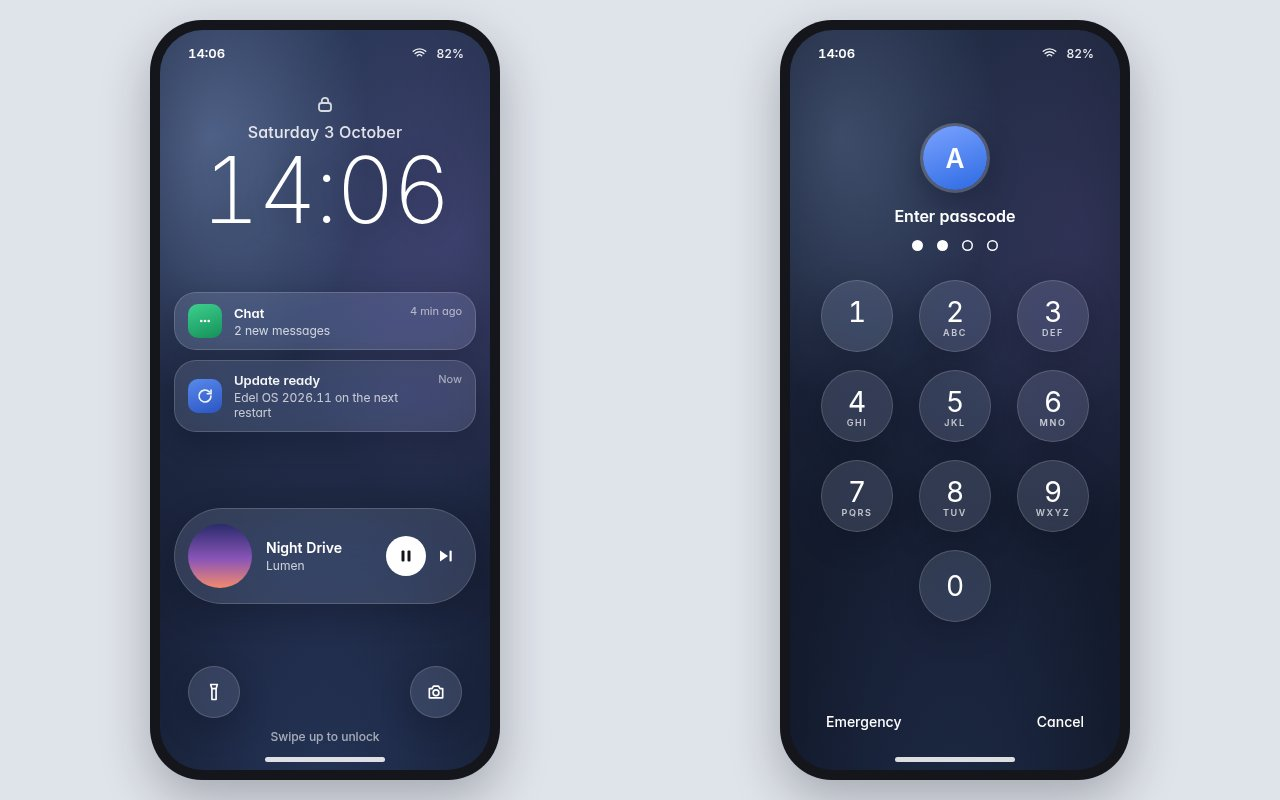
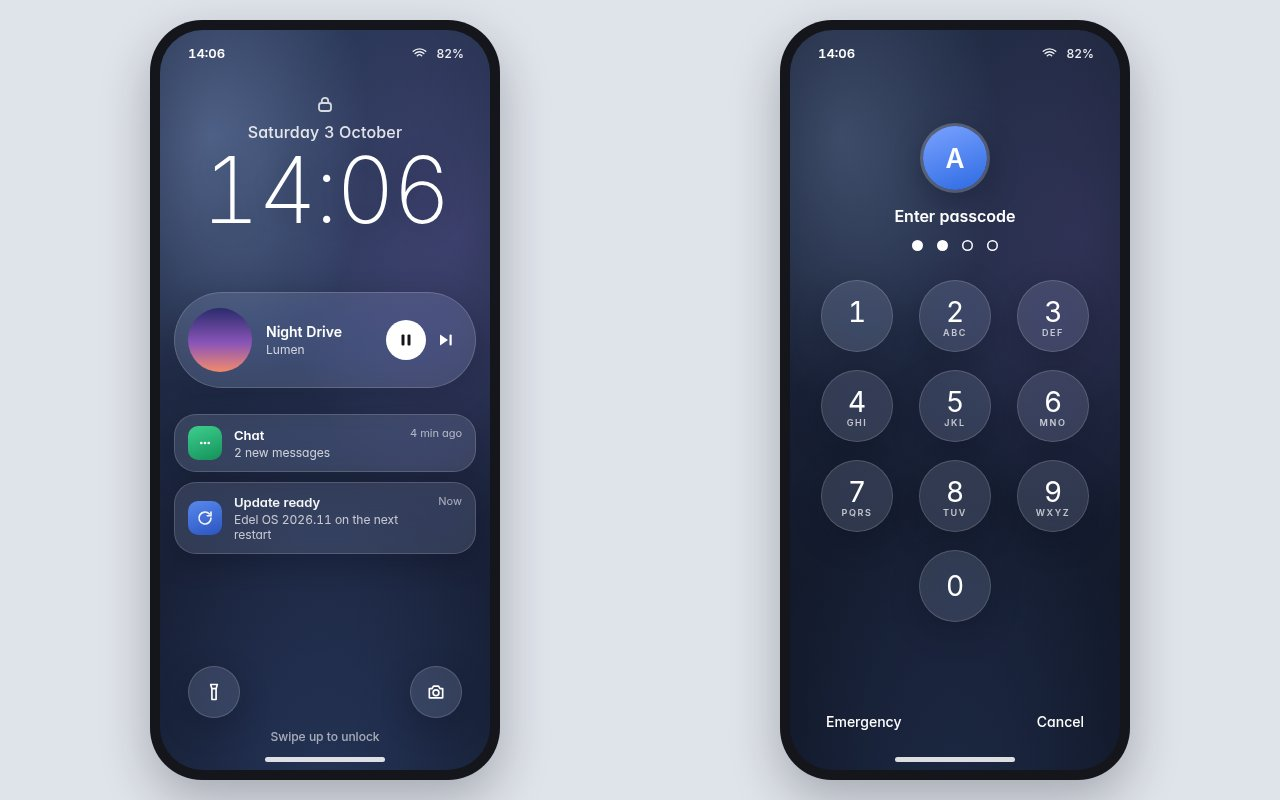
Move the shade's buttons up, place the lock screen's player, plan customization
Alimardon's review of 2026-10-10: the larger buttons beside the clock
looked a little awkward, so on the phone and tablet they move to the top
row beside the battery, over the large clock and the date; on the
phone's lock screen the player sits right under the clock, before the
notifications; they asked to see the desktop lock screen with music
playing (shell/lock-media.jpg) and for every part of the lock and login
screens to be changeable, which M5.10c now plans as tokens and a Lock
screen group on the Appearance page, with a seam for the cover tinting
the background later.

Claude-Session: https://claude.ai/code/session_01BKmt1qoa5mKGyQ4ytiEsKo

Changed region(s): [[0.125, 0.3438, 0.375, 0.7812]]

diff --git a/docs/mockups/shell/canvas/DecTablet.dc.html b/docs/mockups/shell/canvas/DecTablet.dc.html
@@ -110,14 +110,13 @@ a{color:#2459c9}
 .shelf .more{background:#fff;color:#17191d;box-shadow:0 0 0 .5px rgba(20,22,28,.08),0 1px 2px rgba(20,22,28,.08)}
 /* header actions */
 .head{display:flex;flex-direction:column;gap:0;padding:0 4px 0 6px;font-variant-numeric:tabular-nums}
-.head .l1,.head .l2{display:flex;align-items:center;justify-content:space-between}
-.head .l1{justify-content:flex-end;margin-bottom:-6px}
-.head .big{font-size:42px;font-weight:700;letter-spacing:-.035em;line-height:1.05}
-.head .acts{display:flex;gap:10px;align-self:flex-end;margin-bottom:2px}
-.head .acts .ib{width:44px !important;height:44px !important;border-radius:13px !important;background:rgba(20,22,28,.06) !important}
-.head .acts .ib svg{width:18px;height:18px}
+.head .l1{display:flex;align-items:center;justify-content:space-between;margin:-2px 0 6px}
+.head .big{font-size:46px;font-weight:700;letter-spacing:-.035em;line-height:1}
+.head .acts{display:flex;gap:8px}
+.head .acts .ib{width:38px !important;height:38px !important;border-radius:12px !important;background:rgba(20,22,28,.06) !important}
+.head .acts .ib svg{width:17px;height:17px}
 .head .bat{display:flex;align-items:center;gap:6px;font-size:13px;font-weight:600}
-.head .date{font-size:14px;opacity:.62;margin-top:2px}
+.head .date{font-size:14px;opacity:.62;margin-top:4px}
 .dots{display:flex;justify-content:center;gap:5px;margin:-8px 0 2px}
 .dots i{display:block}
 .wsv{width:94px;overflow:hidden;padding:4px 0;-webkit-mask-image:linear-gradient(90deg,#000 0,#000 calc(100% - 16px),transparent 100%);mask-image:linear-gradient(90deg,#000 0,#000 calc(100% - 16px),transparent 100%)}
@@ -151,15 +150,6 @@ a{color:#2459c9}
 .tbar{position:absolute;left:0;right:0;top:0;height:52px;display:flex;align-items:center;gap:8px;padding:0 16px;background:rgba(246,247,249,.9);backdrop-filter:blur(20px);box-shadow:0 .5px 0 rgba(20,22,28,.1)}
 
 /* header actions */
-.head{display:flex;flex-direction:column;gap:0;padding:0 4px 0 6px;font-variant-numeric:tabular-nums}
-.head .l1,.head .l2{display:flex;align-items:center;justify-content:space-between}
-.head .l1{justify-content:flex-end;margin-bottom:-6px}
-.head .big{font-size:42px;font-weight:700;letter-spacing:-.035em;line-height:1.05}
-.head .acts{display:flex;gap:10px;align-self:flex-end;margin-bottom:2px}
-.head .acts .ib{width:44px !important;height:44px !important;border-radius:13px !important;background:rgba(20,22,28,.06) !important}
-.head .acts .ib svg{width:18px;height:18px}
-.head .bat{display:flex;align-items:center;gap:6px;font-size:13px;font-weight:600}
-.head .date{font-size:14px;opacity:.62;margin-top:2px}
 .dots{display:flex;justify-content:center;gap:5px;margin:-8px 0 2px}
 .dots i{display:block}
 /* even rows */
@@ -170,7 +160,7 @@ a{color:#2459c9}
 </style>
 </helmet>
 <div class="tab"><div class="tbar"><div style="display:flex;align-items:center" role="group" aria-label="Workspaces, 1 of 7 shown"><span class="wch off"><svg width="10" height="10" viewBox="0 0 24 24" fill="none" stroke="currentColor" stroke-width="3" stroke-linecap="round" stroke-linejoin="round"><path d="M15 5l-7 7 7 7"/></svg></span><div class="wsv" style="width:126px"><div class="wsr" style="gap:6px"><span class="wp on" style="height:32px;min-width:50px;border-radius:16px;font-size:13px">1</span><span class="wp" style="height:32px;min-width:32px;border-radius:16px;font-size:13px">2</span><span class="wp" style="height:32px;min-width:32px;border-radius:16px;font-size:13px">3</span><span class="wp" style="height:32px;min-width:32px;border-radius:16px;font-size:13px">4</span><span class="wp e" style="height:32px;min-width:32px;border-radius:16px;font-size:13px">5</span><span class="wp e" style="height:32px;min-width:32px;border-radius:16px;font-size:13px">6</span><span class="wp e" style="height:32px;min-width:32px;border-radius:16px;font-size:13px">7</span></div></div><span class="wch"><svg width="10" height="10" viewBox="0 0 24 24" fill="none" stroke="currentColor" stroke-width="3" stroke-linecap="round" stroke-linejoin="round"><path d="M9 5l7 7-7 7"/></svg></span></div><button class="btn" style="height:36px;min-width:44px;border-radius:18px" aria-label="Layout: tiling"><svg width="14" height="14" viewBox="0 0 24 24" fill="none" stroke="currentColor" stroke-width="2"><rect x="3.5" y="4.5" width="17" height="15" rx="3"/><path d="M12 4.5v15"/></svg></button><span style="margin-left:auto;display:flex;align-items:center;gap:6px"><span class="arw" style="width:44px;height:44px"><svg width="12" height="12" viewBox="0 0 24 24" fill="none" stroke="currentColor" stroke-width="2.6" stroke-linecap="round" stroke-linejoin="round"><path d="M6 9l6 6 6-6"/></svg></span><span role="img" aria-label="Chat" style="width:24px;height:24px;border-radius:7px;background:#5b7cf0;color:#fff;display:inline-flex;align-items:center;justify-content:center;font-size:13px;font-weight:600;flex:none">C</span><span class="stp" style="height:36px;border-radius:18px;padding:0 14px"><svg width="14" height="14" viewBox="0 0 24 24" fill="none" stroke="currentColor" stroke-width="2.3" stroke-linecap="round"><path d="M2.5 9a14 14 0 0 1 19 0M5.5 12.5a9.5 9.5 0 0 1 13 0M8.6 16a5 5 0 0 1 6.8 0"/><circle cx="12" cy="19.2" r="1.1" fill="currentColor" stroke="none"/></svg><svg width="14" height="14" viewBox="0 0 24 24" fill="none" stroke="currentColor" stroke-width="2" stroke-linecap="round" stroke-linejoin="round"><path d="M4 9.5h3.5L12 5.5v13l-4.5-4H4z" fill="currentColor"/><path d="M15.5 9a4.5 4.5 0 0 1 0 6"/></svg><svg width="18" height="14" viewBox="0 0 28 16" fill="none" stroke="currentColor" stroke-width="1.6"><rect x="1" y="2" width="22" height="12" rx="3.5"/><rect x="3.5" y="4.5" width="14" height="7" rx="1.5" fill="currentColor" stroke="none"/><path d="M25.5 6v4" stroke-linecap="round"/></svg></span><b style="font-size:14px;font-weight:600;padding:0 6px">14:05</b></span></div><div class="win" style="left:8px;top:60px;width:578px;height:752px"><div class="bar28"><span role="img" aria-label="Files" style="width:16px;height:16px;border-radius:4px;background:#6b7280;color:#fff;display:inline-flex;align-items:center;justify-content:center;font-size:8px;font-weight:600;flex:none">B</span><span>Files</span><span class="btns"><span aria-label="Minimize"><svg width="14" height="14" viewBox="0 0 14 14" fill="none" stroke="currentColor" stroke-width="1.5" stroke-linecap="round"><path d="M2.5 7H11.5"/></svg></span><span aria-label="Maximize"><svg width="14" height="14" viewBox="0 0 14 14" fill="none" stroke="currentColor" stroke-width="1"><rect x="2.5" y="2.5" width="9" height="9"/></svg></span><span aria-label="Close"><svg width="14" height="14" viewBox="0 0 14 14" fill="none" stroke="currentColor" stroke-width="1.5" stroke-linecap="round"><path d="M2.5 2.5L11.5 11.5M2.5 11.5L11.5 2.5"/></svg></span></span></div><div class="ln" style="width:90%"></div><div class="ln" style="width:77%"></div><div class="ln" style="width:64%"></div><div class="ln" style="width:51%"></div><div class="ln" style="width:88%"></div><div class="ln" style="width:75%"></div><div class="ln" style="width:62%"></div><div class="ln" style="width:49%"></div><div class="ln" style="width:86%"></div><div class="ln" style="width:73%"></div><div class="ln" style="width:60%"></div><div class="ln" style="width:47%"></div></div><div class="win focused" style="left:594px;top:60px;width:578px;height:752px"><div class="bar28"><span role="img" aria-label="Notes" style="width:16px;height:16px;border-radius:4px;background:#e3a73a;color:#fff;display:inline-flex;align-items:center;justify-content:center;font-size:8px;font-weight:600;flex:none">N</span><span>Notes</span><span class="btns"><span aria-label="Minimize"><svg width="14" height="14" viewBox="0 0 14 14" fill="none" stroke="currentColor" stroke-width="1.5" stroke-linecap="round"><path d="M2.5 7H11.5"/></svg></span><span aria-label="Maximize"><svg width="14" height="14" viewBox="0 0 14 14" fill="none" stroke="currentColor" stroke-width="1"><rect x="2.5" y="2.5" width="9" height="9"/></svg></span><span aria-label="Close"><svg width="14" height="14" viewBox="0 0 14 14" fill="none" stroke="currentColor" stroke-width="1.5" stroke-linecap="round"><path d="M2.5 2.5L11.5 11.5M2.5 11.5L11.5 2.5"/></svg></span></span></div><div class="ln" style="width:90%"></div><div class="ln" style="width:77%"></div><div class="ln" style="width:64%"></div><div class="ln" style="width:51%"></div><div class="ln" style="width:88%"></div><div class="ln" style="width:75%"></div><div class="ln" style="width:62%"></div><div class="ln" style="width:49%"></div><div class="ln" style="width:86%"></div><div class="ln" style="width:73%"></div><div class="ln" style="width:60%"></div><div class="ln" style="width:47%"></div></div><div style="position:absolute;right:12px;top:62px;width:390px;display:flex;flex-direction:column;gap:8px">    <div class="sheet glass">
-      <div class="head"><div class="l1"><span class="bat" aria-label="Battery 82 percent">82%<svg width="24" height="13" viewBox="0 0 28 15" fill="none" stroke="currentColor" stroke-width="1.6" aria-hidden="true"><rect x="1" y="1.5" width="22" height="12" rx="3.6"/><rect x="3.4" y="3.9" width="14.6" height="7.2" rx="1.6" fill="currentColor" stroke="none"/><path d="M25.4 5.8v3.4" stroke-linecap="round"/></svg></span></div><div class="l2"><span><div class="big">14:05</div><div class="date">Saturday 3 October 2026</div></span><span class="acts"><button class="ib" aria-label="Edit"><svg width="17" height="17" viewBox="0 0 24 24" fill="none" stroke="currentColor" stroke-width="2" stroke-linecap="round" stroke-linejoin="round"><path d="M4 20h4L19 9l-4-4L4 16z"/></svg></button><button class="ib" aria-label="Settings"><svg width="18" height="18" viewBox="0 0 24 24" fill="none" stroke="currentColor" stroke-width="1.9" stroke-linejoin="round"><circle cx="12" cy="12" r="3"/><path d="M12 2.8l1.7 2.4 2.9-.5.9 2.8 2.7 1.2-.6 2.9 1.6 2.4-2.3 1.8.1 2.9-2.9.4-1.3 2.6L12 21.2l-2.7.9-1.3-2.6-2.9-.4.1-2.9-2.3-1.8 1.6-2.4-.6-2.9 2.7-1.2.9-2.8 2.9.5z"/></svg></button><button class="ib" aria-label="Power: lock, log out, restart or power off"><svg width="17" height="17" viewBox="0 0 24 24" fill="none" stroke="currentColor" stroke-width="2.1" stroke-linecap="round"><path d="M12 3v8"/><path d="M6.3 6.8a8 8 0 1 0 11.4 0"/></svg></button></span></div></div>
+      <div class="head"><div class="l1"><span class="bat" aria-label="Battery 82 percent">82%<svg width="24" height="13" viewBox="0 0 28 15" fill="none" stroke="currentColor" stroke-width="1.6" aria-hidden="true"><rect x="1" y="1.5" width="22" height="12" rx="3.6"/><rect x="3.4" y="3.9" width="14.6" height="7.2" rx="1.6" fill="currentColor" stroke="none"/><path d="M25.4 5.8v3.4" stroke-linecap="round"/></svg></span><span class="acts"><button class="ib" aria-label="Edit"><svg width="17" height="17" viewBox="0 0 24 24" fill="none" stroke="currentColor" stroke-width="2" stroke-linecap="round" stroke-linejoin="round"><path d="M4 20h4L19 9l-4-4L4 16z"/></svg></button><button class="ib" aria-label="Settings"><svg width="18" height="18" viewBox="0 0 24 24" fill="none" stroke="currentColor" stroke-width="1.9" stroke-linejoin="round"><circle cx="12" cy="12" r="3"/><path d="M12 2.8l1.7 2.4 2.9-.5.9 2.8 2.7 1.2-.6 2.9 1.6 2.4-2.3 1.8.1 2.9-2.9.4-1.3 2.6L12 21.2l-2.7.9-1.3-2.6-2.9-.4.1-2.9-2.3-1.8 1.6-2.4-.6-2.9 2.7-1.2.9-2.8 2.9.5z"/></svg></button><button class="ib" aria-label="Power: lock, log out, restart or power off"><svg width="17" height="17" viewBox="0 0 24 24" fill="none" stroke="currentColor" stroke-width="2.1" stroke-linecap="round"><path d="M12 3v8"/><path d="M6.3 6.8a8 8 0 1 0 11.4 0"/></svg></button></span></div><div class="big">14:05</div><div class="date">Saturday 3 October 2026</div></div>
       <div class="grid">
         <button class="pill on" aria-label="Wi-Fi, on, Home 5G"><span class="i"><svg width="19" height="19" viewBox="0 0 24 24" fill="none" stroke="currentColor" stroke-width="2.2" stroke-linecap="round"><path d="M2.5 9a14 14 0 0 1 19 0M5.5 12.5a9.5 9.5 0 0 1 13 0M8.6 16a5 5 0 0 1 6.8 0"/><circle cx="12" cy="19.2" r="1.1" fill="currentColor" stroke="none"/></svg></span><span><div class="n">Wi-Fi</div><div class="s">Home 5G</div></span><span class="chev" aria-hidden="true"><svg width="14" height="14" viewBox="0 0 24 24" fill="none" stroke="currentColor" stroke-width="2.6" stroke-linecap="round" stroke-linejoin="round"><path d="M9 5l7 7-7 7"/></svg></span></button>
         <button class="pill on" aria-label="Mobile data, on"><span class="i"><svg width="19" height="19" viewBox="0 0 24 24" fill="currentColor"><rect x="3" y="14" width="3.2" height="6" rx="1"/><rect x="8.3" y="10.5" width="3.2" height="9.5" rx="1"/><rect x="13.6" y="7" width="3.2" height="13" rx="1"/><rect x="18.9" y="3.5" width="3.2" height="16.5" rx="1" opacity=".4"/></svg></span><span><div class="n">Mobile</div><div class="s">5G</div></span><span class="chev" aria-hidden="true"><svg width="14" height="14" viewBox="0 0 24 24" fill="none" stroke="currentColor" stroke-width="2.6" stroke-linecap="round" stroke-linejoin="round"><path d="M9 5l7 7-7 7"/></svg></span></button>

diff --git a/docs/mockups/shell/canvas/lock.html b/docs/mockups/shell/canvas/lock.html
@@ -45,6 +45,14 @@ body{margin:0;font-family:Inter,"Inter Variable",sans-serif;font-feature-setting
 .user.dim{opacity:.62}
 .other{border:1.5px dashed rgba(255,255,255,.55);background:rgba(255,255,255,.06);box-shadow:none}
 .cap{position:absolute;left:24px;bottom:24px;font-size:12px;opacity:.55;font-weight:500}
+.mplayer{position:absolute;left:50%;top:286px;transform:translateX(-50%);width:460px;height:116px;border-radius:58px;display:flex;align-items:center;gap:18px;padding:0 26px 0 16px}
+.cover{width:84px;height:84px;border-radius:50%;flex:none;background:linear-gradient(180deg,#2a2b6c,#8a55b8 55%,#f48a6c);box-shadow:0 6px 18px rgba(6,10,22,.35)}
+.meta{flex:1;min-width:0}.app{display:flex;align-items:center;gap:6px;font-size:11px;opacity:.65;font-weight:500}
+.appic{width:12px;height:12px;border-radius:4px;background:linear-gradient(160deg,#ff6f8f,#e0335a)}
+.title{font-size:17px;font-weight:600;margin-top:3px}.artist{font-size:13px;opacity:.72;margin-top:1px}
+.bar{height:4px;border-radius:2px;background:rgba(255,255,255,.22);margin-top:10px;overflow:hidden}.bar span{display:block;height:100%;background:#fff;border-radius:2px}
+.times{display:flex;justify-content:space-between;font-size:10px;opacity:.6;margin-top:4px}
+.ctl{display:flex;align-items:center;gap:16px}.pp{width:48px;height:48px;border-radius:50%;background:#fff;display:flex;align-items:center;justify-content:center}
 /* phones */
 .desk{width:1280px;height:800px;position:relative;background:#dfe3ea;color:#fff;overflow:hidden}
 .phone{position:absolute;top:20px;width:350px;height:760px;border-radius:52px;background:#14161b;padding:10px;box-shadow:0 20px 50px rgba(20,24,36,.28)}
@@ -100,6 +108,46 @@ body{margin:0;font-family:Inter,"Inter Variable",sans-serif;font-feature-setting
   </div>
 </div>
 
+<!-- The lock screen while music plays: the player under the clock. -->
+<div class="screen" id="lock-media">
+  <div class="wall"></div>
+  <div class="status">
+    <svg width="16" height="16" viewBox="0 0 24 24" fill="none" stroke="#fff" stroke-width="2" stroke-linecap="round"><path d="M2 8.5a15 15 0 0 1 20 0M5 12a10 10 0 0 1 14 0M8.5 15.5a5 5 0 0 1 7 0"/><circle cx="12" cy="19" r="1" fill="#fff"/></svg>
+    <span style="display:flex;align-items:center;gap:6px">82%<svg width="24" height="13" viewBox="0 0 24 13"><rect x=".75" y=".75" width="20" height="11.5" rx="3.2" fill="none" stroke="#fff" stroke-opacity=".6" stroke-width="1.5"/><rect x="2.6" y="2.6" width="13.6" height="7.8" rx="1.6" fill="#fff"/><rect x="22" y="4.2" width="1.6" height="4.6" rx=".8" fill="#fff" fill-opacity=".6"/></svg></span>
+  </div>
+  <div class="date" style="top:84px">Saturday 3 October</div>
+  <div class="clock" style="top:110px;font-size:132px">14:06</div>
+  <div class="mplayer glass">
+    <div class="cover"></div>
+    <div class="meta"><div class="app"><span class="appic"></span>Music</div><div class="title">Night Drive</div><div class="artist">Lumen</div>
+      <div class="bar"><span style="width:38%"></span></div><div class="times"><span>1:24</span><span>3:41</span></div></div>
+    <div class="ctl">
+      <svg width="22" height="22" viewBox="0 0 16 16" fill="#fff"><path d="M14 2.5 6 8l8 5.5z"/><rect x="2.3" y="2.5" width="2.2" height="11" rx="1"/></svg>
+      <div class="pp"><svg width="18" height="18" viewBox="0 0 14 14" fill="#14161b"><rect x="2.5" y="1.5" width="3" height="11" rx="1"/><rect x="8.5" y="1.5" width="3" height="11" rx="1"/></svg></div>
+      <svg width="22" height="22" viewBox="0 0 16 16" fill="#fff"><path d="M2 2.5l8 5.5-8 5.5z"/><rect x="11.5" y="2.5" width="2.2" height="11" rx="1"/></svg>
+    </div>
+  </div>
+  <div class="summary glass" style="top:420px">
+    <div class="stack"><span style="background:linear-gradient(160deg,#3ecf8e,#14915a)"></span><span style="background:linear-gradient(160deg,#5b8ef5,#2d58c8)"></span></div>
+    <span style="margin-left:4px">3 notifications</span>
+  </div>
+  <div class="who" style="top:500px">
+    <div class="avatar" style="width:84px;height:84px;font-size:34px">A</div>
+    <div class="name">Ali</div>
+    <div class="field glass">
+      <span class="dot"></span><span class="dot"></span><span class="dot"></span><span class="dot"></span><span class="dot"></span><span class="dot"></span>
+      <span class="caps" title="Caps Lock" style="display:none"><svg width="16" height="16" viewBox="0 0 24 24" fill="none" stroke="#fff" stroke-width="2" stroke-linejoin="round" stroke-linecap="round"><path d="M12 4 4 12h4.5v4h7v-4H20z"/><path d="M8.5 20h7"/></svg></span>
+      <span class="go" style="margin-left:auto"><svg width="16" height="16" viewBox="0 0 24 24" fill="none" stroke="#fff" stroke-width="2.4" stroke-linecap="round" stroke-linejoin="round"><path d="M5 12h14M13 6l6 6-6 6"/></svg></span>
+    </div>
+    <div class="note" style="display:none"><svg width="13" height="13" viewBox="0 0 24 24" fill="none" stroke="#fff" stroke-width="2.2" stroke-linejoin="round" stroke-linecap="round"><path d="M12 4 4 12h4.5v4h7v-4H20z"/></svg>Caps Lock is on</div>
+  </div>
+  <div class="corner">
+    <div class="btn glass">EN</div>
+    <div class="btn glass"><svg width="18" height="18" viewBox="0 0 24 24" fill="none" stroke="#fff" stroke-width="2" stroke-linecap="round" stroke-linejoin="round"><circle cx="12" cy="4.5" r="1.8" fill="#fff" stroke="none"/><path d="M5 8.5l7 1.5 7-1.5M12 10v4.5l-3.5 6M12 14.5l3.5 6"/></svg></div>
+    <div class="btn glass"><svg width="18" height="18" viewBox="0 0 24 24" fill="none" stroke="#fff" stroke-width="2.2" stroke-linecap="round"><path d="M12 3v8"/><path d="M6.3 6.8a8 8 0 1 0 11.4 0"/></svg></div>
+  </div>
+</div>
+
 <!-- The login screen: the same picture, the people of this machine to pick. -->
 <div class="screen" id="greeter">
   <div class="wall"></div>
@@ -138,15 +186,15 @@ body{margin:0;font-family:Inter,"Inter Variable",sans-serif;font-feature-setting
     <div style="position:absolute;top:66px;left:0;right:0;text-align:center"><svg width="14" height="16" viewBox="0 0 14 16" fill="none" stroke="#fff" stroke-width="1.8" opacity=".8"><rect x="1" y="7" width="12" height="8" rx="2.5"/><path d="M3.8 7V5a3.2 3.2 0 0 1 6.4 0v2"/></svg></div>
     <div class="date" style="top:92px;font-size:16px">Saturday 3 October</div>
     <div class="clock" style="top:114px;font-size:92px;letter-spacing:-3px">14:06</div>
-    <div class="card glass" style="top:262px">
+    <div class="card glass" style="top:384px">
       <div class="ic" style="background:linear-gradient(160deg,#3ecf8e,#14915a)"><svg width="18" height="18" viewBox="0 0 24 24" fill="#fff"><circle cx="7" cy="12" r="1.8"/><circle cx="12" cy="12" r="1.8"/><circle cx="17" cy="12" r="1.8"/></svg></div>
       <div><div class="t1">Chat</div><div class="t2">2 new messages</div></div><span class="when">4 min ago</span>
     </div>
-    <div class="card glass" style="top:330px;opacity:.96">
+    <div class="card glass" style="top:452px;opacity:.96">
       <div class="ic" style="background:linear-gradient(160deg,#5b8ef5,#2d58c8)"><svg width="18" height="18" viewBox="0 0 24 24" fill="none" stroke="#fff" stroke-width="2.2" stroke-linecap="round"><path d="M20 12a8 8 0 1 1-2.3-5.6M20 4v5h-5"/></svg></div>
       <div><div class="t1">Update ready</div><div class="t2">Edel OS 2026.11 on the next restart</div></div><span class="when">Now</span>
     </div>
-    <div class="player glass" style="top:478px">
+    <div class="player glass" style="top:262px">
       <div style="width:64px;height:64px;border-radius:50%;flex:none;background:linear-gradient(180deg,#2a2b6c,#8a55b8 55%,#f48a6c)"></div>
       <div><div class="t1" style="font-size:14px">Night Drive</div><div class="t2">Lumen</div></div>
       <div style="margin-left:auto;display:flex;gap:12px;align-items:center">

diff --git a/docs/mockups/shell/canvas/DecPhone.dc.html b/docs/mockups/shell/canvas/DecPhone.dc.html
@@ -110,14 +110,13 @@ a{color:#2459c9}
 .shelf .more{background:#fff;color:#17191d;box-shadow:0 0 0 .5px rgba(20,22,28,.08),0 1px 2px rgba(20,22,28,.08)}
 /* header actions */
 .head{display:flex;flex-direction:column;gap:0;padding:0 4px 0 6px;font-variant-numeric:tabular-nums}
-.head .l1,.head .l2{display:flex;align-items:center;justify-content:space-between}
-.head .l1{justify-content:flex-end;margin-bottom:-6px}
-.head .big{font-size:42px;font-weight:700;letter-spacing:-.035em;line-height:1.05}
-.head .acts{display:flex;gap:10px;align-self:flex-end;margin-bottom:2px}
-.head .acts .ib{width:44px !important;height:44px !important;border-radius:13px !important;background:rgba(20,22,28,.06) !important}
-.head .acts .ib svg{width:18px;height:18px}
+.head .l1{display:flex;align-items:center;justify-content:space-between;margin:-2px 0 6px}
+.head .big{font-size:46px;font-weight:700;letter-spacing:-.035em;line-height:1}
+.head .acts{display:flex;gap:8px}
+.head .acts .ib{width:38px !important;height:38px !important;border-radius:12px !important;background:rgba(20,22,28,.06) !important}
+.head .acts .ib svg{width:17px;height:17px}
 .head .bat{display:flex;align-items:center;gap:6px;font-size:13px;font-weight:600}
-.head .date{font-size:14px;opacity:.62;margin-top:2px}
+.head .date{font-size:14px;opacity:.62;margin-top:4px}
 .dots{display:flex;justify-content:center;gap:5px;margin:-8px 0 2px}
 .dots i{display:block}
 /* even rows */
@@ -130,7 +129,7 @@ a{color:#2459c9}
 <div style="display:flex;gap:40px"><div class="scr">
   <div style="position:absolute;left:8px;right:8px;top:8px;display:flex;flex-direction:column;gap:8px">
     <div class="sheet glass">
-      <div class="head"><div class="l1"><span class="bat" aria-label="Battery 82 percent">82%<svg width="24" height="13" viewBox="0 0 28 15" fill="none" stroke="currentColor" stroke-width="1.6" aria-hidden="true"><rect x="1" y="1.5" width="22" height="12" rx="3.6"/><rect x="3.4" y="3.9" width="14.6" height="7.2" rx="1.6" fill="currentColor" stroke="none"/><path d="M25.4 5.8v3.4" stroke-linecap="round"/></svg></span></div><div class="l2"><span><div class="big">14:05</div><div class="date">Saturday 3 October 2026</div></span><span class="acts"><button class="ib" aria-label="Edit"><svg width="17" height="17" viewBox="0 0 24 24" fill="none" stroke="currentColor" stroke-width="2" stroke-linecap="round" stroke-linejoin="round"><path d="M4 20h4L19 9l-4-4L4 16z"/></svg></button><button class="ib" aria-label="Settings"><svg width="18" height="18" viewBox="0 0 24 24" fill="none" stroke="currentColor" stroke-width="1.9" stroke-linejoin="round"><circle cx="12" cy="12" r="3"/><path d="M12 2.8l1.7 2.4 2.9-.5.9 2.8 2.7 1.2-.6 2.9 1.6 2.4-2.3 1.8.1 2.9-2.9.4-1.3 2.6L12 21.2l-2.7.9-1.3-2.6-2.9-.4.1-2.9-2.3-1.8 1.6-2.4-.6-2.9 2.7-1.2.9-2.8 2.9.5z"/></svg></button><button class="ib" aria-label="Power: lock, log out, restart or power off"><svg width="17" height="17" viewBox="0 0 24 24" fill="none" stroke="currentColor" stroke-width="2.1" stroke-linecap="round"><path d="M12 3v8"/><path d="M6.3 6.8a8 8 0 1 0 11.4 0"/></svg></button></span></div></div>
+      <div class="head"><div class="l1"><span class="bat" aria-label="Battery 82 percent">82%<svg width="24" height="13" viewBox="0 0 28 15" fill="none" stroke="currentColor" stroke-width="1.6" aria-hidden="true"><rect x="1" y="1.5" width="22" height="12" rx="3.6"/><rect x="3.4" y="3.9" width="14.6" height="7.2" rx="1.6" fill="currentColor" stroke="none"/><path d="M25.4 5.8v3.4" stroke-linecap="round"/></svg></span><span class="acts"><button class="ib" aria-label="Edit"><svg width="17" height="17" viewBox="0 0 24 24" fill="none" stroke="currentColor" stroke-width="2" stroke-linecap="round" stroke-linejoin="round"><path d="M4 20h4L19 9l-4-4L4 16z"/></svg></button><button class="ib" aria-label="Settings"><svg width="18" height="18" viewBox="0 0 24 24" fill="none" stroke="currentColor" stroke-width="1.9" stroke-linejoin="round"><circle cx="12" cy="12" r="3"/><path d="M12 2.8l1.7 2.4 2.9-.5.9 2.8 2.7 1.2-.6 2.9 1.6 2.4-2.3 1.8.1 2.9-2.9.4-1.3 2.6L12 21.2l-2.7.9-1.3-2.6-2.9-.4.1-2.9-2.3-1.8 1.6-2.4-.6-2.9 2.7-1.2.9-2.8 2.9.5z"/></svg></button><button class="ib" aria-label="Power: lock, log out, restart or power off"><svg width="17" height="17" viewBox="0 0 24 24" fill="none" stroke="currentColor" stroke-width="2.1" stroke-linecap="round"><path d="M12 3v8"/><path d="M6.3 6.8a8 8 0 1 0 11.4 0"/></svg></button></span></div><div class="big">14:05</div><div class="date">Saturday 3 October 2026</div></div>
       <div class="grid">
         <button class="pill on" aria-label="Wi-Fi, on, Home 5G"><span class="i"><svg width="19" height="19" viewBox="0 0 24 24" fill="none" stroke="currentColor" stroke-width="2.2" stroke-linecap="round"><path d="M2.5 9a14 14 0 0 1 19 0M5.5 12.5a9.5 9.5 0 0 1 13 0M8.6 16a5 5 0 0 1 6.8 0"/><circle cx="12" cy="19.2" r="1.1" fill="currentColor" stroke="none"/></svg></span><span><div class="n">Wi-Fi</div><div class="s">Home 5G</div></span><span class="chev" aria-hidden="true"><svg width="14" height="14" viewBox="0 0 24 24" fill="none" stroke="currentColor" stroke-width="2.6" stroke-linecap="round" stroke-linejoin="round"><path d="M9 5l7 7-7 7"/></svg></span></button>
         <button class="pill on" aria-label="Mobile data, on"><span class="i"><svg width="19" height="19" viewBox="0 0 24 24" fill="currentColor"><rect x="3" y="14" width="3.2" height="6" rx="1"/><rect x="8.3" y="10.5" width="3.2" height="9.5" rx="1"/><rect x="13.6" y="7" width="3.2" height="13" rx="1"/><rect x="18.9" y="3.5" width="3.2" height="16.5" rx="1" opacity=".4"/></svg></span><span><div class="n">Mobile</div><div class="s">5G</div></span><span class="chev" aria-hidden="true"><svg width="14" height="14" viewBox="0 0 24 24" fill="none" stroke="currentColor" stroke-width="2.6" stroke-linecap="round" stroke-linejoin="round"><path d="M9 5l7 7-7 7"/></svg></span></button>

diff --git a/docs/ROADMAP.md b/docs/ROADMAP.md
@@ -283,8 +283,8 @@ Every milestone ends with the ab-test, boot-test and install-test still green; a
   Split into PRs on 2026-10-10, ticked as each lands:
   - [x] **10a. The lock screen.** ext-session-lock-v1 in the compositor, Super+L, and shell-ui's lock surface on every screen with a password field, the password checked by the system's own helper. Done when: meta-l shows the lock colour and clicks on windows do nothing; a typed password unlocks. Done with: the compositor's `lock.rs` (only each screen's lock surface drawn, over a cover in the tokens' `backdrop_deep`, the keyboard and pointer to it alone, no shortcut but the volume and brightness keys and the terminals, the lock confirmed once every screen has drawn locked, a dead lock client's lock kept and shell-ui asked to lock again when it links up, `locked` in the state file), the `lock` event of `edel-shell-v1`; shell-ui's `lock.rs` (the phone mockup's lock screen at every size: the date over a large clock, the person's initial on an accent disc, their name and a field of dots, "Wrong password, try again" after a two-second wait) and `lock_card.rs` (the surfaces and the keyboard; the password checked on a thread by `unix_chkpwd`, its places in `edel::places::PASSWORD_CHECKERS`, the "Lock password check" default row); desktop-test `lock` locks with Super+L, finds `backdrop_deep` where the panel was, clicks where a window lies with no change, and unlocks with ci's password after a wrong one.
   - [ ] **10b. The greeter.** shell-ui's `--greeter` mode over greetd's IPC, greetd's `default_session` the compositor as user `greeter` with it on top, installed systems greeting and the live image logging in by itself. Done when: the rest of step 10's Done when.
-  - [ ] **10c. The lock and login screens, polished.** Asked by Alimardon on 2026-10-10 ("much more premium, elegant, and really beautiful", with power buttons in a corner as other systems have): as `docs/mockups/shell/lock.jpg` and `greeter.jpg` draw them. Behind, the person's wallpaper blurred once when the screen locks and dimmed so white text reads on any picture, the tokens' backdrop without one; the date over a large light clock in tabular figures; a count of the notifications that arrived with their apps' icons, never their words; the person's picture or initial; a frosted field with a round go button, a Caps Lock warning, and a short shake on a wrong password (none with reduced motion). In the bottom right corner, round buttons for the keyboard layout (shown with two or more), accessibility (the screen reader, larger text) and power, whose menu offers Suspend, Restart and Shut down, Restart marked when an update waits. The login screen shows the people of the machine to pick with the arrows or a click, and Other to type a name. How power gets the right to act without logind is chosen in the step, as a default row. Beyond macOS and Windows: the lock and login screens are one design, power and the layout are one click away on both, and the lock screen says what arrived, never what it says.
-    Done when: desktop-test `lock` finds the power button's place and its menu's three rows in shell-ui's log, and the greeter case picks ci from the list by its place. Notes: `shell/lock-phone.jpg` is the same design on a phone, built with M9's lock screen.
+  - [ ] **10c. The lock and login screens, polished.** Asked by Alimardon on 2026-10-10 ("much more premium, elegant, and really beautiful", with power buttons in a corner as other systems have): as `docs/mockups/shell/lock.jpg` and `greeter.jpg` draw them. Behind, the person's wallpaper blurred once when the screen locks and dimmed so white text reads on any picture, the tokens' backdrop without one; the date over a large light clock in tabular figures; a count of the notifications that arrived with their apps' icons, never their words; the person's picture or initial; a frosted field with a round go button, a Caps Lock warning, and a short shake on a wrong password (none with reduced motion). In the bottom right corner, round buttons for the keyboard layout (shown with two or more), accessibility (the screen reader, larger text) and power, whose menu offers Suspend, Restart and Shut down, Restart marked when an update waits. The login screen shows the people of the machine to pick with the arrows or a click, and Other to type a name. While music plays, the player sits under the clock as its own frosted card (`shell/lock-media.jpg`): the cover, the app, the title and artist, the time played and previous, play or pause and next, through the same MPRIS code as quick settings (M5.9d). Every part is the person's to change (Alimardon, 2026-10-10: "everything can be customizable"): the lock screen's colours, sizes and glass are design tokens (the clock's size and weight, the text, the glass's tint and blur, the dimming), so the Appearance page and the settings file change them as any token (M5.12b); and a Lock screen group on the Appearance page holds its keys: the background (the wallpaper blurred, by default, or sharp, a colour or a picture), the clock (large, small or none), what notifications show (how many, by default, the apps' names, everything, or nothing), the player (on by default) and the corner's buttons (a list, by default the layout, accessibility and power); each a Settings row, an `edel settings` key and a line of the settings file under one section, their final names set in the step by ADR-008's same names rule. How power gets the right to act without logind is chosen in the step, as a default row. Beyond macOS and Windows: the lock and login screens are one design, power and the layout are one click away on both, and the lock screen says what arrived, never what it says.
+    Done when: desktop-test `lock` finds the power button's place and its menu's three rows in shell-ui's log, and the greeter case picks ci from the list by its place. Notes: `shell/lock-phone.jpg` is the same design on a phone, the player under the clock and the notifications after it, built with M9's lock screen. Seam (ADR-002): the lock screen's backdrop is drawn by one function from one picture, so a later step can let the playing song's cover tint it while music plays, as Alimardon suggested on 2026-10-10 for the future, by giving it the cover instead of the wallpaper.
 - [x] **11. Effect tiers and animations.** Full, Balanced, Lite as a state machine from the renderer string, battery state and preset; a frame-deadline monitor drops a tier after N missed frames with hysteresis; open, close, move and workspace animations tied to the display clock; reduce-motion honoured; `edel status`.
   Done when: cargo tests for the state machine; desktop-test logs `tier=lite` under llvmpipe and the frame budget still passes over ten window opens; a forced Full tier logs the drop. Notes: ADR-002 section 5; the tier thresholds come from `edel report` on Alimardon's 2016 laptop. Split into two PRs, ticked as each lands, and started ahead of M5.1b, which waits for the toolkit choice, as the compositor's part needs nothing from shell-ui:
   - [x] **11a. Tiers.** `edel_compositor::effects` (the tiers, the starting tier, the frame-deadline monitor) with cargo tests; the compositor picks the tier from the GL renderer's name and the battery (`EDEL_EFFECTS` forces one), logs `tier=NAME`, writes it to the state file and feeds every frame to the monitor; `edel status` prints it. Done when: the cargo tests; `desktop-test compositor` finds `tier=lite` under llvmpipe and `edel status` saying `lite`. Done with: a frame misses when it takes over three quarters of the screen's refresh interval, and 5 misses among the last 60 frames drop one tier (the "Effect tiers" default row) until Alimardon's laptop gives real thresholds; tiers never rise within a session; the preset joins the starting tier with the presets (M5.4).
@@ -754,7 +754,7 @@ Dated entries, newest first. Format: `YYYY-MM-DD: what changed, why, which PR`. 
 
 - 2026-10-10: M5.9k added: a notifications button any panel can hold, with a dot, a count or nothing (`notifications.badge`), opening the notifications without the calendar. Asked by Alimardon. PR #210.
 - 2026-10-10: M5.9j added: a setting for where notification banners show, `notifications.position`, by the status area by default. Asked by Alimardon. PR #210.
-- 2026-10-10: M5.10c added: the lock and login screens polished after new mockups (`shell/lock.jpg`, `shell/greeter.jpg`, `shell/lock-phone.jpg`), with power, accessibility and the keyboard layout in a corner; the phone's and tablet's quick settings get the larger clock with the date and year and larger edit, Settings and power buttons (`shell/phone.jpg`, `shell/tablet.jpg`); the fourth round's quick settings, notifications and phone lock screen pictures are deleted, as the fifth round replaced them. Asked by Alimardon. PR #210.
+- 2026-10-10: M5.10c added: the lock and login screens polished after new mockups (`shell/lock.jpg`, `shell/lock-media.jpg`, `shell/greeter.jpg`, `shell/lock-phone.jpg`), with power, accessibility and the keyboard layout in a corner, the player under the clock while music plays, and every part changeable through tokens and a Lock screen group on the Appearance page; the phone's and tablet's quick settings get a larger clock with the date and year, and their edit, Settings and power buttons move up beside the battery (`shell/phone.jpg`, `shell/tablet.jpg`); the fourth round's quick settings, notifications and phone lock screen pictures are deleted, as the fifth round replaced them. Asked by Alimardon. PR #210.
 - 2026-10-10: M5.10 is split into 10a, the lock screen, and 10b, the greeter, so each lands as its own PR; the lock's password is checked with Linux-PAM's own helper (a new "Decisions taken by default" row). PR #208.
 - 2026-10-10: M6.2a added: Flatpak apps quick and light, with their caches, the matching Mesa extension and a ready settings portal in the image, one shared runtime per base release, unused runtimes removed by `edel update`, nothing Flatpak-related running in the background, and CI budgets for an app's cold and warm start and its memory. Ideas gathered with a Fable agent, weighed by the principles; pre-loading files at login waits for a measurement. Asked by Alimardon.
 - 2026-10-10: M5.2j-b4 grows the overview's blur (on Full and Balanced once there is a wallpaper, a dim on Lite), keeps the panels shown in the overview, and adds a tooltip on a strip frame with the workspace's whole name and its apps. A description for each workspace was considered and left out: the name already says it, and a new setting costs a Settings row, a key and a file line for something most people would leave empty (Simple). Asked by Alimardon.

diff --git a/docs/mockups/README.md b/docs/mockups/README.md
@@ -65,7 +65,7 @@ review of M8.18 first) may revisit them for better taste.
 |---|---|
 | [shell/laptop.jpg](shell/laptop.jpg) | Classic on a laptop: quick settings over the status area, the player its own card above it, brightness and volume on the bottom shelf, edit, Settings and power in the footer beside the battery |
 | [shell/tablet.jpg](shell/tablet.jpg) | Tablet: tiled under a top bar; quick settings at touch size in the top right corner, with the phone's header, the player below it |
-| [shell/phone.jpg](shell/phone.jpg) | Phone: quick settings pulled down, its header a large clock over the date with the year and larger edit, Settings and power buttons (Alimardon, 2026-10-10), the player below; the volume pop-up beside the volume keys |
+| [shell/phone.jpg](shell/phone.jpg) | Phone: quick settings pulled down, its header the battery with edit, Settings and power on the top row, then a large clock over the date with the year (Alimardon, 2026-10-10), the player below; the volume pop-up beside the volume keys |
 | [shell/notifications-laptop.jpg](shell/notifications-laptop.jpg) | A click on the clock: the notifications card, with Do not disturb as a moon button in its title row and Clear all, the calendar card below |
 | [shell/notifications-phone.jpg](shell/notifications-phone.jpg) | Phone: a swipe down from the top left opens a full shade, with no card and no calendar, the battery shown |
 | [shell/notifications-tablet.jpg](shell/notifications-tablet.jpg) | Tablet: the same shade over the dimmed screen |
@@ -78,8 +78,9 @@ review of M8.18 first) may revisit them for better taste.
 | [shell/player.jpg](shell/player.jpg) | The player card (M5.9i, chosen by Alimardon on 2026-10-10 as option 2A): a pill, its app's icon and name small at the top centre; with several players each is a page, switched by scrolling sideways, a swipe or a click on tiny dots under the controls, the shown dot a short accent pill |
 | [shell/overview.jpg](shell/overview.jpg) | The overview, Super+W (M5.2j-b, approved by Alimardon on 2026-10-10): every workspace small in a strip on a frosted tray, a frame to add one, search, and the shown workspace's windows large and labelled; a workspace dragged along the strip reorders them; the strip down the left by default, or on any side with `workspaces.overview_strip`; a click on the switcher's lit workspace opens it too |
 | [shell/lock.jpg](shell/lock.jpg) | The lock screen (M5.10c, proposed 2026-10-10): the wallpaper blurred and dimmed, the date over a large light clock, how many notifications came and from which apps, never their words, the person and a frosted password field with a Caps Lock warning; in the bottom right corner the keyboard layout, accessibility and power, its menu open: Suspend, Restart (an update waits) and Shut down |
+| [shell/lock-media.jpg](shell/lock-media.jpg) | The lock screen while music plays (M5.10c): the player under the clock as its own frosted card, with the cover, the time played and the controls |
 | [shell/greeter.jpg](shell/greeter.jpg) | The login screen (M5.10c): the same design, the people of the machine to pick and Other to type a name |
-| [shell/lock-phone.jpg](shell/lock-phone.jpg) | A phone's lock screen (M9): the notifications as frosted cards saying only what arrived, the player pill, the torch and camera; then the passcode on round frosted keys |
+| [shell/lock-phone.jpg](shell/lock-phone.jpg) | A phone's lock screen (M9): the player under the clock, then the notifications as frosted cards saying only what arrived, the torch and camera; then the passcode on round frosted keys |
 | [shell/options.jpg](shell/options.jpg) | The other layouts a person can switch to: the shelf at the top, both shelves, the player inside the grid, the sliders standing in it |
 
 The rules under them:
@@ -101,8 +102,8 @@ The rules under them:
   then (Alimardon, 2026-10-10, `shell/player.jpg`).
 - **Edit, Settings and power** sit on the anchored edge: the footer on a
   bottom panel; when the sheet hangs from the top (phone, tablet), the
-  header, beside a large clock over the date with the year, as 44 px
-  rounded squares (Alimardon, 2026-10-10). A chevron on a pill opens its
+  header's top row, beside the battery, as 38 px rounded squares over a
+  large clock and the date with the year (Alimardon, 2026-10-10). A chevron on a pill opens its
   details in place.
 - **A slider is only a slider.** One lying on a shelf has its chevron
   beside it; one standing in the grid has no button at all: a right
@@ -123,7 +124,7 @@ The rules under them:
 
 The canvas these came from is Alimardon's design artifact (private). The
 pictures here are the copy every session and agent reads, and their
-boards, as HTML to change, are in `docs/mockups/shell/canvas/`; `canvas/player.html` draws `player.jpg`, `canvas/overview.html` `overview.jpg` and `canvas/lock.html` `lock.jpg`, `greeter.jpg` and `lock-phone.jpg` (`node render.js lock.html` there) (the same Playwright and Chromium, at twice the size, as JPEG).
+boards, as HTML to change, are in `docs/mockups/shell/canvas/`; `canvas/player.html` draws `player.jpg`, `canvas/overview.html` `overview.jpg` and `canvas/lock.html` `lock.jpg`, `lock-media.jpg`, `greeter.jpg` and `lock-phone.jpg` (`node render.js lock.html` there) (the same Playwright and Chromium, at twice the size, as JPEG).
 
 `edel-mockups.html` draws them all; `node render.js` writes the pictures
 (Playwright with Chromium, and Inter installed for the text).
